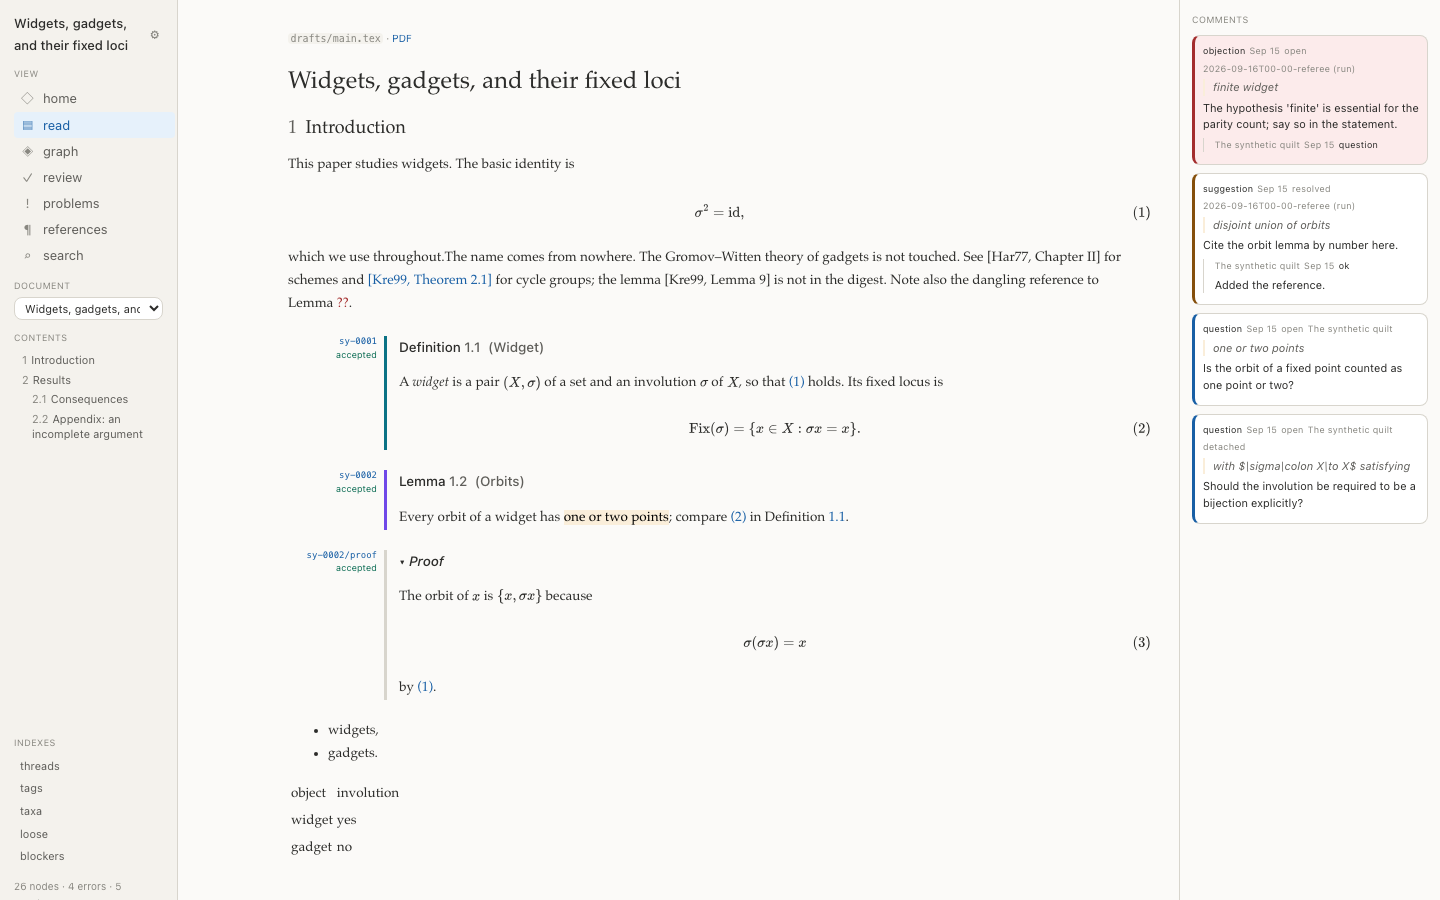
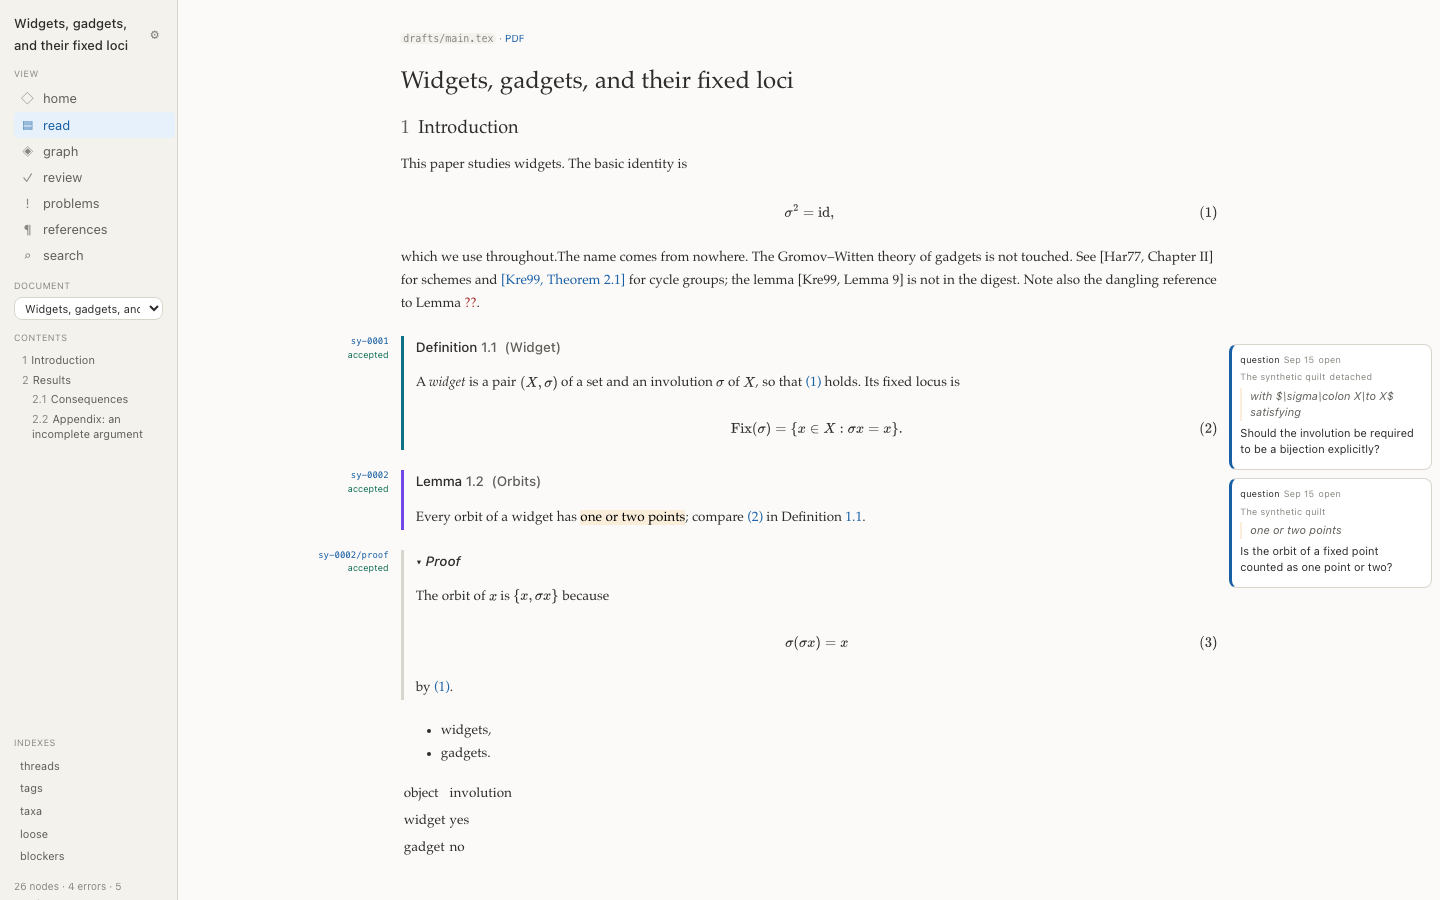
DR-98: the read view's gutters, and chapter 15 revised to them
The author reviewed the built read view and asked for the site generator's page geometry. 15.3.1 now describes the measured column, the two gutters, the accent rule as the boundary, and the rule that decides whether a comment stands in the gutter or stays in the text; 15.4's table no longer gives the read view a shell rail; the token table carries the two new tokens and the corrected width scale.

diff --git a/docs/book/15-arras-layout.md b/docs/book/15-arras-layout.md
@@ -53,9 +53,13 @@ Markers as elsewhere. The chapter was written before the viewer was built and it
 
 ![Read view](figures/page-read-master.png)
 
-**[decided]** The document rendered as a document. Prose in the body typeface at 11–16px depending on the user's type setting, `line-height: 1.7`. Each node is a row: a 86px right-aligned margin column holding the id in mono accent and the state word beneath it in the state colour at 9px, then a hairline vertical rule, then the node's rendered text indented 10px past the rule. Numbers come from the manifest and appear in the statement's label ("Lemma 3.4."). Proofs render collapsed with a disclosure marker, matching sitegen's `details.env-proof` treatment: no box, a left rule, a ▸/▾ marker. Environment boxes follow sitegen's `environments.css` convention: a per-taxon left-border accent, no filled background.
+**[decided]** The document rendered as a document, in a measured column with a gutter either side. The geometry is the site generator's own, so that a corpus page and a note page are laid out alike: the gutters are `(available − measure)/3` each and the text column absorbs the third they give up, one knob being the `/3`. Prose in the body typeface at 11–16px depending on the user's type setting, `line-height: 1.7`; the width setting is 36, 44 or 52rem, the middle being the site generator's own measure.
 
-**[decided]** The right rail appears in the read view only when a node on screen carries non-discarded comments, and then holds them, aligned as closely as layout allows to the node they target.
+**[decided]** The left gutter holds each node's margin annotation: the id in mono accent and the state word beneath it in the state colour at 9px, right-aligned, ending exactly at the environment's per-taxon accent rule, which is the boundary between the gutter and the text. Environments follow sitegen's `environments.css` convention — a left-border accent, no filled background — and that border is the rule; the node's text is indented past it. Numbers come from the manifest and appear in the statement's label ("Lemma 3.4."). Proofs render collapsed with a disclosure marker, matching sitegen's `details.env-proof` treatment: no box, a left rule, a ▸/▾ marker.
+
+**[decided]** The gutter is a container-relative length rather than a percentage, since the margin annotation and the gutter comments are positioned against a node and a percentage would resolve against that node instead of the page. Below 1100px there are no gutters, and everything that stands in one rejoins the flow (DR-98).
+
+**[decided]** A node's comments stand in the right gutter beside it, each aligned with the node it is about; the read view uses no shell rail for them. A comment whose rendered text and replies run past 220 characters stays in the text instead, as a box below the node, because a paragraph squeezed into a gutter is unreadable and a reader who must hunt for the rest of a sentence would rather have it in the flow (DR-98).
 
 ### 15.3.2 Node page
 
@@ -90,7 +94,7 @@ See 15.5.
 | view | left (shell C panel; A and B equivalents) | right |
 |---|---|---|
 | home | document picker, contents tree | none |
-| read | document picker, contents tree | comments, when a reached node carries one |
+| read | document picker, contents tree | none; comments stand in the page's own right gutter |
 | node | document picker, contents tree | in `<document>`, depends on, used by, see also, discussions, detached comments, diagnostics |
 | graph | layout, document, taxon, tag, state, depth, highlight | the selection and what rests on it |
 | review | show, document, author, tag, and the count | none; a row expands in place |
@@ -135,7 +139,9 @@ See 15.5.
 | `--rad-pill` `--rad-control` `--rad-card` | 4, 8, 12px | radii |
 | `--rail-left` `--rail-right` `--strip` | 168, 236, 44px | the fixed widths of 15.2 |
 | `--rail-a` `--rail-b` `--topbar` | 178, 160, 30px | shell A's rail, shell B's rail, shell B's bar |
-| `--measure` | 34rem, 42rem, 50rem by setting | body line width |
+| `--gutter` | `(100cqw − --measure) / 3` | the read view's gutters, on the site generator's algebra |
+| `--env-accent` | 3px | the per-taxon rule, and the boundary the left gutter ends at |
+| `--measure` | 36rem, 44rem, 52rem by setting | body line width; the middle is the site generator's |
 
 **[decided]** State tokens are a second group, named for the state rather than for a role, because arras's states are loom's and not a generic severity scale:
 

diff --git a/docs/records/record-2026-09-16.md b/docs/records/record-2026-09-16.md
@@ -89,6 +89,12 @@ The mechanical parts were regenerated: Appendix B from the chapters' own open qu
 
 By eye: the ACGS paper's contents rail holds 66 entries and scrolls (2765px of content in a 577px box), which was the case that motivated the fix; the relative localization quilt shows its `see also` list on both nodes with the documents that reach each; a hover and a jump to definition answered from Neovim against the real server.
 
+### After review: the read view's gutters
+
+The author looked at the built read view and asked for the site generator's page geometry: a gutter either side of the text, the environment's vertical rule standing on the boundary rather than inside the text, the margin annotation out in the left gutter, and comments out in the right — except a comment with sizeable content, which stays in the text as a box.
+
+Built as DR-98. The gutters are the site generator's algebra exactly, `(available − measure)/3` each with the text column absorbing the third they give up, so a corpus page and a note page are laid out alike, and the width scale moved to 36, 44 and 52rem so the middle setting is the site generator's own 44rem. The gutter had to be a container-relative length rather than a percentage: the margin annotation and the gutter comments are positioned against a node, and a percentage in a custom property resolves at the point of use, so the first attempt produced 50px gutters beside every environment. The comment cards are Svelte components mounted into slots the fragment's wiring creates, because the fragment is injected HTML and a template cannot reach into it.
+
 ## Design changes
 
 **The manifest gained a field the plan said Part A would not need.** The plan stated that nothing loom publishes changes and that there would be no manifest change and no interface bump. Half of that held: the interface version is unchanged, because the change is additive. But the contents tree cannot be built correctly without knowing a section's own depth. The inclusion tree nests everything a section contains beneath it, so a `\section` following a `\section` is a tree child of the first while being its outline sibling, and a `\paragraph` unit is indistinguishable from a chapter. Section node entries therefore carry `"level"` (DR-91). Without it the ACGS paper's rail fills with paragraph units and indents them all wrongly.
@@ -110,3 +116,5 @@ By eye: the ACGS paper's contents rail holds 66 entries and scrolls (2765px of c
 **`vscode-languageclient` appends the transport as a flag.** A server it launches over stdio is invoked as `loom-lsp --stdio`. An argument parser that rejects the flag exits 2 before writing a byte, and the editor reports only "server process exited with code 2" with no indication of why. This cost the longest single detour of the execution: the server answered a hand-written `initialize` correctly, answered one spawned from Node correctly, and failed only inside VS Code, which pointed at everything except the argument vector. The server now accepts `--stdio` and ignores it, and a test asserts that it does.
 
 **The extension host does not inherit a shell's `PATH`.** A server living in a virtual environment therefore cannot be found by name, and writing an absolute path into the user's settings from a test is worse than the problem. `LOOM_BIN` and `LOOM_LSP` in the environment override the two path settings. This is how the integration suite names the executables, and it is also the honest answer for anyone launching the editor from a virtual environment.
+
+**A comment's place depends on how much it says.** The chapter put the read view's comments in the shell's right rail. That rail is a third of a screen from the sentence a comment is about, and the author asked for them beside the node instead. A gutter is too narrow for a paragraph, so the rule is by size: a comment whose rendered text and replies run past 220 characters stays in the text as a box below its node, and everything shorter stands in the gutter. The threshold is a constant in the read view with its reason beside it, not a setting.

diff --git a/docs/book/A-decision-records.md b/docs/book/A-decision-records.md
@@ -200,3 +200,5 @@ DR-96 · 2026-09-16 · A title keeps its mathematics · specs/manifest.md §3 ·
 DR-89 · 2026-09-16 · Brainstorming and granularity with one new directive · P4, P5, P10 · Brainstorming uses runs, candidate taxa, loose nodes, and an outline master; same-statement granularity uses multiple proofs; different-statement granularity uses a node-level `see:` directive recorded as a relation that is never a dependency. A `brainstorm` mode with four blocks is added. Rejected: an `expands:` directive (a second key for one idea), a `refuted` convention with tool support (a state in a tag), an `expands-statement-differs` diagnostic (fires on the intended case), a graph toggle (post-MVP). · The requirement was a link the viewer shows and the paper never sees; directives are the mechanism reserved for that, and everything else already existed. Numbered DR-39 in `docs/plans/0.2-brainstorm-and-relations.md`, which was written before DR-39 to DR-88 were assigned; the plan's own numbering is superseded by this record.
 
 DR-97 · 2026-09-16 · Four changes that let a client scan an editor's buffers · 5.9.1, 5.7.3, 9.1 · `kpsewhich` is memoised per name, since it is a subprocess run once per unresolved inclusion and a paper's unresolved names repeat: it was 86 ms of a 166 ms scan on the Manolache import, and a warm scan of that quilt is now 74 ms. `\ref`, `\eqref`, `\cref` and `\uses` sites carry the character offset and column that were computed and thrown away, so `EdgeRec` has `offset` and `column` and a `dangling-link` points at the command rather than at the line. A node records `label_offsets`, the offset of each of its `\label`s, so a definition site is a range and not a line; a section's labels all point at its sectioning command, which is where a reader wants to land. `scan(quilt, overlay)` takes a map of quilt-relative paths to the text of unsaved buffers, which stand in for what is on disk, and a path that exists only in a buffer resolves as an inclusion, so a file written and not yet saved is scanned. · Each is small and improves loom alone; together they are what a language server needs, and without the last one an editor's diagnostics would follow the last save rather than the keystrokes.
+
+DR-98 · 2026-09-16 · The read view is a measured column between two gutters · 15.3.1, 15.6, 15.7 · The document sits in a column of `--measure` plus a third of the slack around it, with a gutter either side of `(available − measure)/3`, which is the site generator's own algebra, so that a corpus page and a note page are laid out alike. The gutter is a container-relative length (`100cqw`), not a percentage, because the things standing in it are positioned against a node and a percentage would resolve against that node. The margin annotation — the key and its state — moves out of the text column into the left gutter, ending exactly at the environment's taxon accent, which is now the boundary between the two rather than a rule 96px inside the text. A node's comments stand in the right gutter beside it; one whose rendered text runs past 220 characters stays in the text as a box instead, because a paragraph squeezed into a gutter is unreadable. Below 1100px there are no gutters and both rejoin the flow. The width scale becomes 36, 44 and 52rem so that the middle setting is the site generator's 44rem. · Chapter 15.3.1 gave the read view an 86px margin column inside the text and put comments in the shell's right rail. Built, the margin column took its width from the text and the rail put a comment a third of a screen away from the sentence it was about; the author asked for both to move into gutters, and for a comment with something to say to stay in the text where it can be read.

diff --git a/docs/deviations.md b/docs/deviations.md
@@ -66,3 +66,4 @@ Every place the implementation departs from a `[decided]` statement, or settles 
 | 2026-09-16 | 5.6.2, 5.7.2, 5.11.3, 10.2.1, 12.4, specs/manifest.md §16, specs/diagnostics.md | (unstated) a node-level relation that is not a dependency | `% !LOOM see: ID, ID`, resolved like a reference, published as a top-level `relations` list, printed by `deps` in a section marked not-a-dependency, shown by the viewer on both nodes | a detailed version of a result must not make the compact version stale, and `\uses` is the only way to declare a dependency | DR-89 | y |
 | 2026-09-16 | 4.7, 11.5, specs/fixture.md §1 | (unstated) candidate taxa and a mode for exploring | the minimal master declares `conjecture` and `question`; the demo gains an outline master; an eighth mode, brainstorm, with four blocks | a quilt should be usable for planning from the first minute | DR-89 | y |
 | 2026-09-16 | 5.7.3, 5.9.1, 9.1 | (unstated) offsets are computed and discarded; `scan` reads the disk | `\ref` and `\uses` sites carry offset and column, nodes record their label offsets, `kpsewhich` is memoised, and `scan(quilt, overlay)` reads unsaved buffers | a language server needs ranges, not lines, and must see the buffer | DR-97 | y
+| 2026-09-16 | 15.3.1, 15.6, 15.7 | an 86px margin column inside the text; comments in the shell's right rail | a measured column between two gutters on the site generator's algebra, the margin annotation in the left gutter, comments in the right, long ones inline as boxes; the width scale is 36/44/52rem | the margin column took its width from the text and the rail put a comment a third of a screen from its sentence | DR-98 | y |
